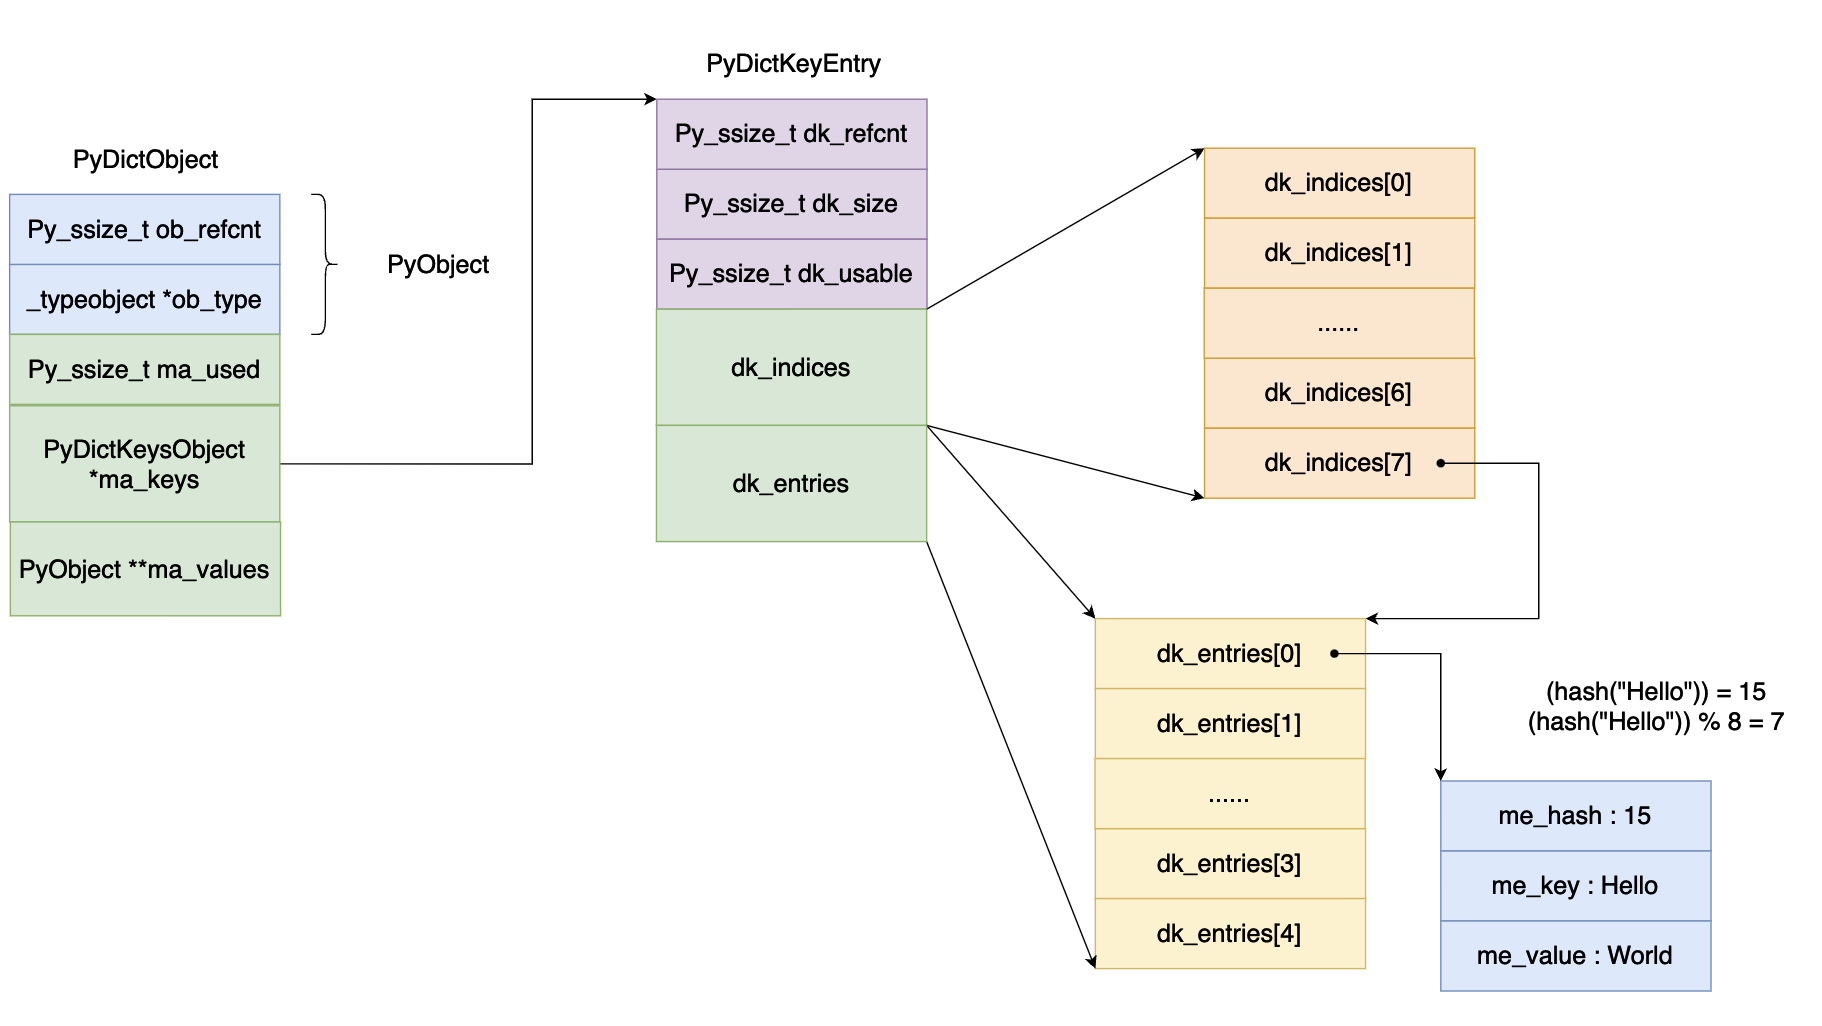
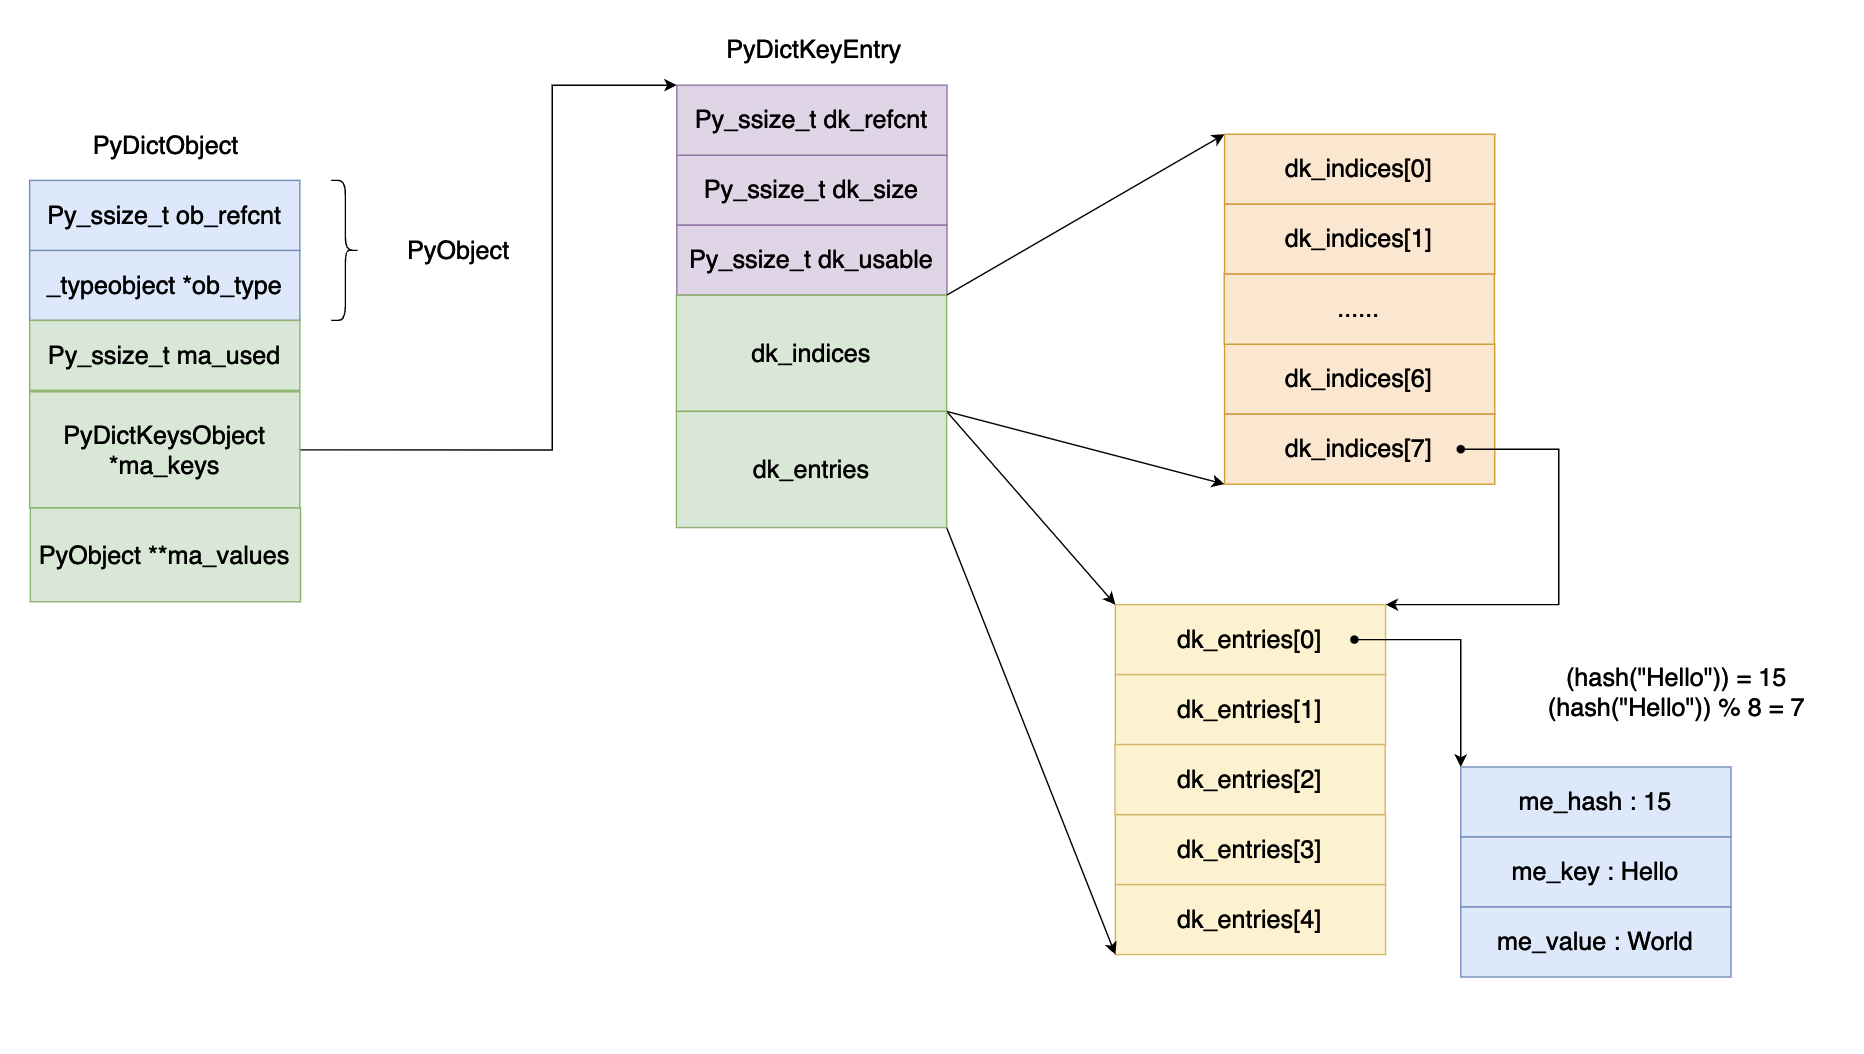
update optimized dict

diff --git a/objects/09dict.md b/objects/09dict.md
@@ -43,6 +43,10 @@ typedef struct {
 
 ![33-dict](../images/33-dict.png)
 
+在新的字典当中 cpython 对于 dk_entries 来说如果正常的哈希表的长度为 8 的话，因为负载因子是 $\frac{2}{3}$ 真正给 dk_entries 分配的长度是 5 = 8 / 3，那么现在有一个问题就是如何根据不同的哈希值进行对象的存储。dk_indices 就是这个作用的，他的长度和真正的哈希表的长度是一样的，dk_indices 是一个整型数组这个数组保存的是要保存对象在 dk_entries 当中的下标，比如在上面的例子当中 dk_indices[7] = 0，就表示哈希值求余数之后的值等于 7，0 表示对象在 dk_entries 当中的下标。
+
+现在我们再插入一个数据 "World" "Hello" 键值对，假设 "World" 的哈希值等于 8，那么对哈希值求余数之后等于 0 ，那么 dk_indices[0] 就是保存对象在 dk_entries 数组当中的下标的，图中对应的下标为 1 （因为 dk_entries 数组当中的每个数据都要使用，因此直接递增即可，下一个对象来的话就保存在 dk_entries 数组的第 2 个位置）。
+
 
 
 ![33-dict](../images/34-dict.png)
